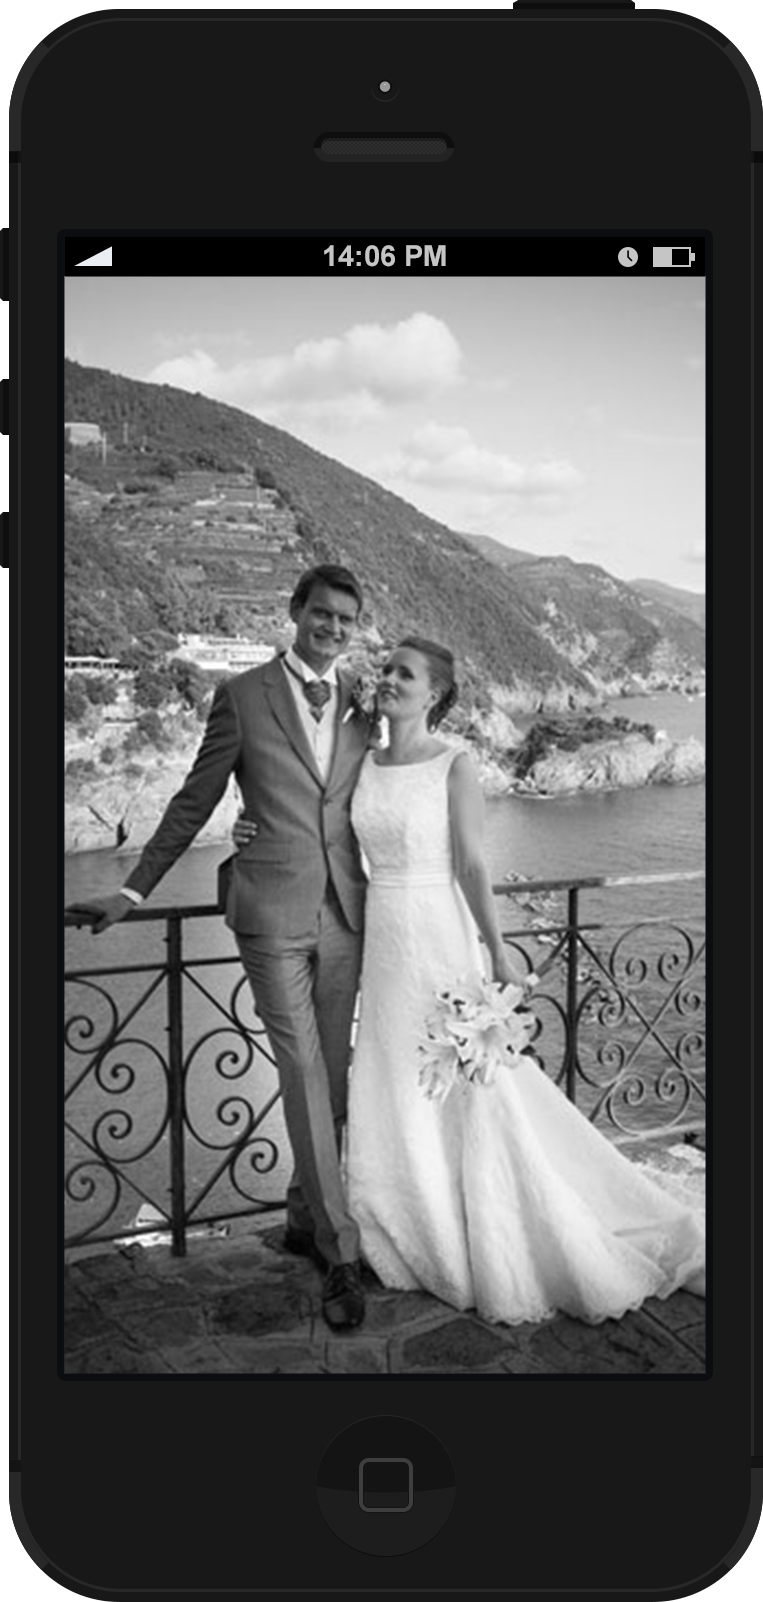
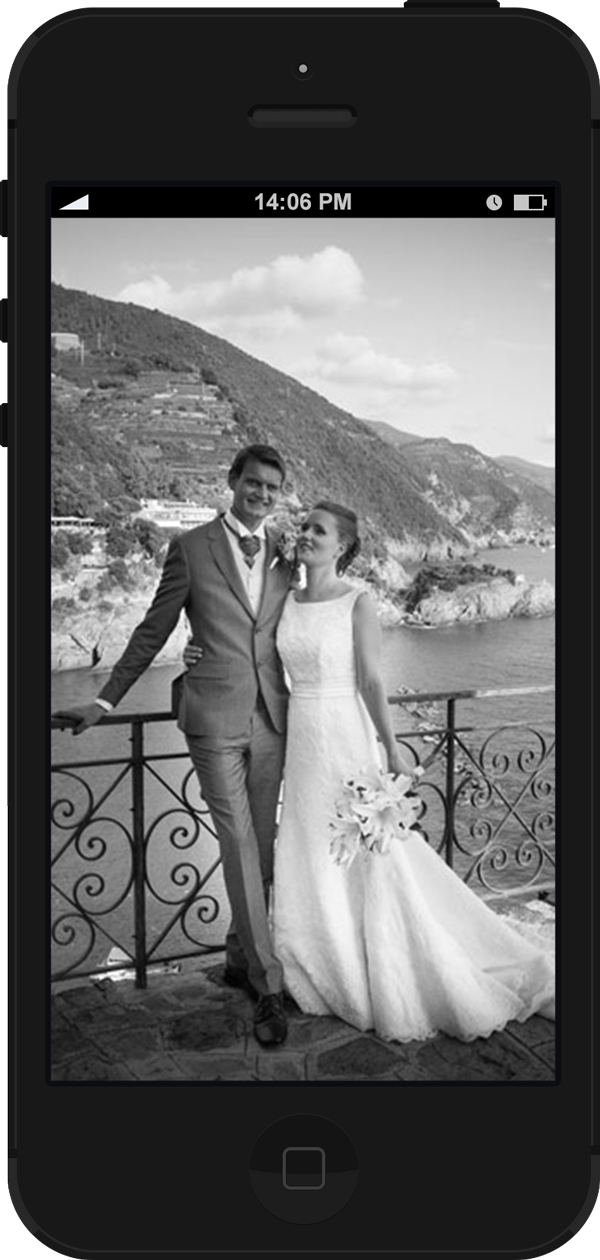
reduced iphone image size

diff --git a/gulpfile.js b/gulpfile.js
@@ -38,7 +38,7 @@ gulp.task('images', ['cleanImages'], function() {
 gulp.task('imagesProduction', ['cleanImages'], function() {
   return gulp.src(paths.images)
     // Pass in options to the task 
-    .pipe(imagemin({optimizationLevel: 5}))
+    .pipe(imagemin({optimizationLevel: 4}))
     .pipe(gulp.dest('public/assets/img'));
 });
  
